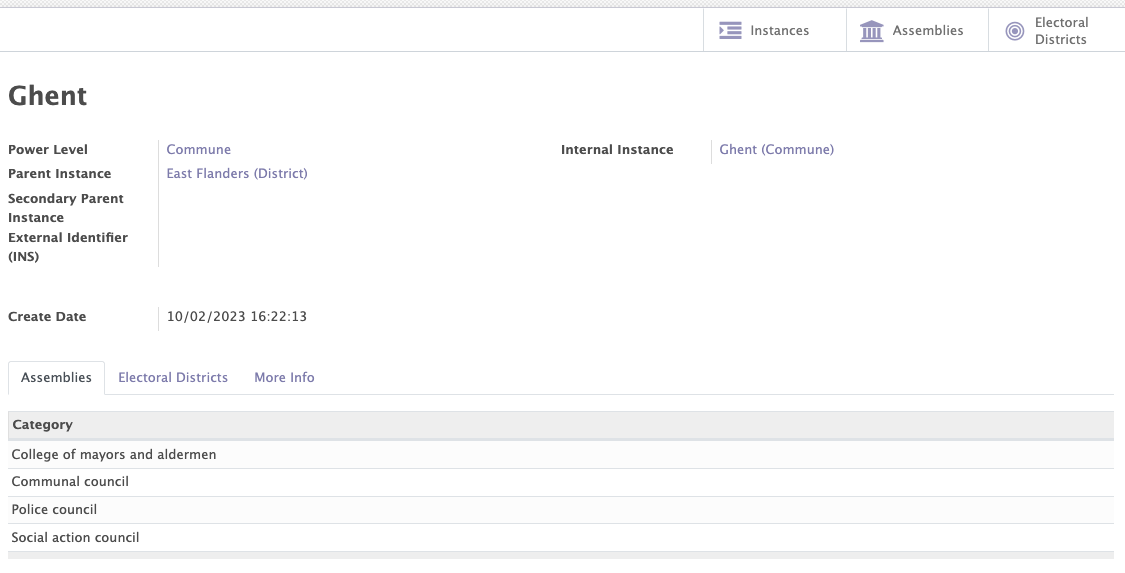
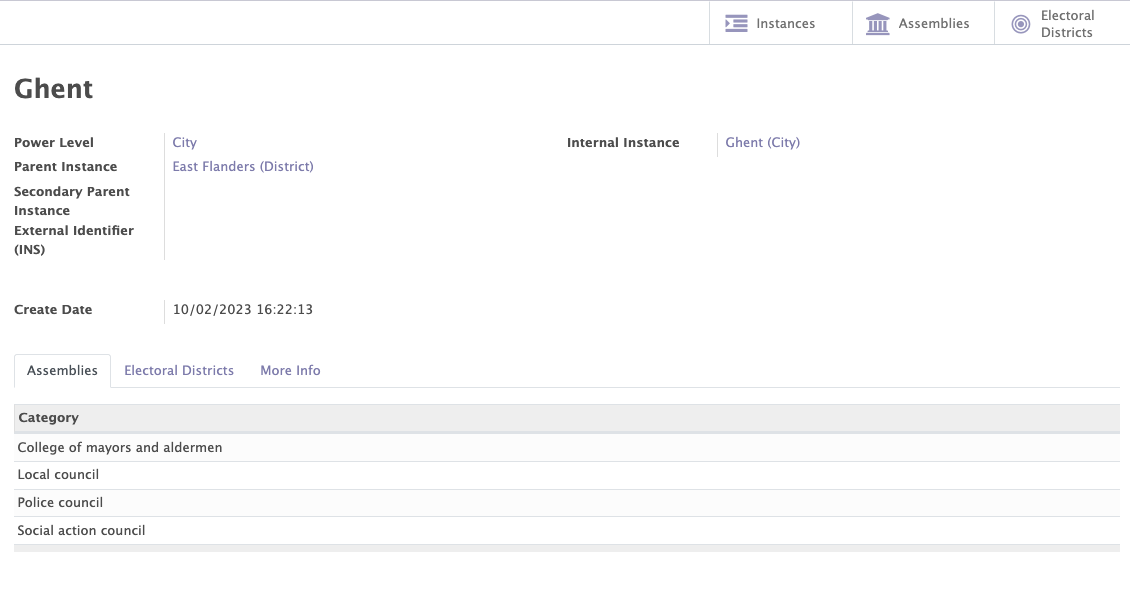
MAJ des screens et des textes page structure

diff --git a/docs/2Structure_module.md b/docs/2Structure_module.md
@@ -28,8 +28,6 @@ An instance is a governance entity responsible for the management of specific fu
 
 Instances are always linked to a name and to a power level. They can also be linked to a parent instance, in order to create a hierarchical structure. For example, the Procince of East Flanders in Belgium is the parent instance of the city of Ghent.
 
-METTRE LE SCREENSHOT EN ANGLAIS  (commune à mettre comme CITY)
-
 <figure markdown>
 ![screenshot 14](img/screen14.png)
 <figcaption>Example of an instance</figcaption>
@@ -41,11 +39,13 @@ The assembly is a collective decision-making instance, which can have a key role
 
 Each instance can be associated to an assembly category of the same power level. This combination is generating assemblies.
 
+!!!example "Examples"
 
-METTRE AUSSI UN EXEMPLE POUR LA STRUCTURE INTERNE (avant la structure politique)
+    In the internal structure of the political party, the city of Ghent (power level = city) could be associated with the following categories of assemblies:
 
-
-!!!example
+    - Local secretary
+    - Local Selection Committee
+    - Local treasury
 
     In the political structure of Belgium, the city of Ghent (power level = city) could be associated with the following categories of assemblies:
 
@@ -55,16 +55,19 @@ METTRE AUSSI UN EXEMPLE POUR LA STRUCTURE INTERNE (avant la structure politique)
     - The social action council
 
 <figure markdown>
+![screenshot 58](img/screen58.png)
+<figcaption>Example of an internal instance with its related category assemblies</figcaption>
+</figure>
+
+<figure markdown>
 ![screenshot 52](img/screen52.png)
-<figcaption>Example of an instance with its related category assemblies</figcaption>
+<figcaption>Example of an political instance with its related category assemblies</figcaption>
 </figure>
 
 <figure markdown>
 ![screenshot 53](img/screen53.png)
 <figcaption>Example of assemblies</figcaption>
 </figure>
-
-METTRE LES SCREENSHOTS EN ANGLAIS 
 
 ## Electoral districts (only for the political structure)
 
@@ -76,8 +79,6 @@ The electoral districts can be register in the "electoral districts" tab of the 
 ![screenshot 55](img/screen55.png)
 <figcaption>Example of a electoral district</figcaption>
 </figure>
-
-METTRE LE SCREENSHOT EN ANGLAIS (power level = city)
 
 ## Legislature (only for the political structure)
 
@@ -91,5 +92,3 @@ When a mandate is created a legislature will be bound to that mandate thanks to 
 ![screenshot 54](img/screen54.png)
 <figcaption>Example of a legislature</figcaption>
 </figure>
-
-METTRE EN ANGLAIS + reprendre un exemple avec power level = city (donc ELections communales de 2024 par exemple)
